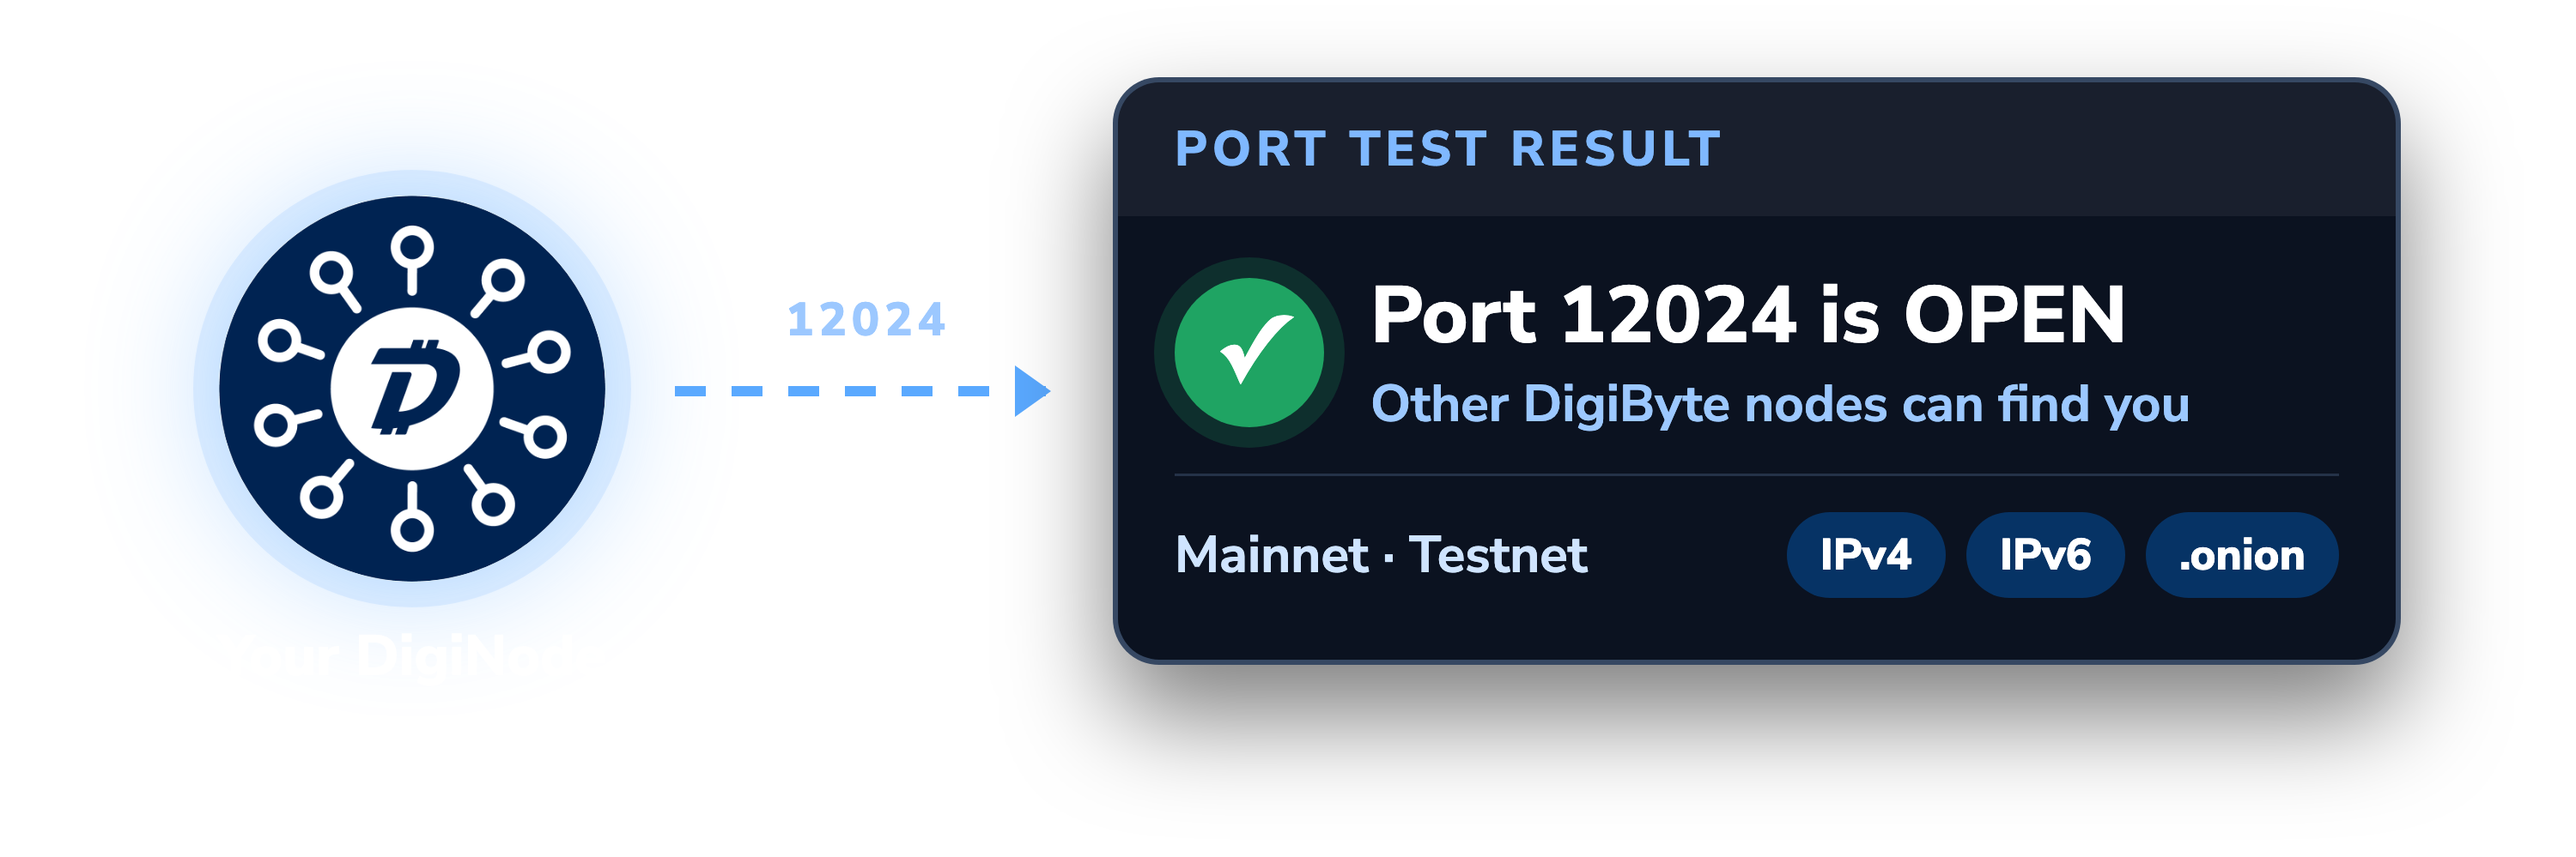
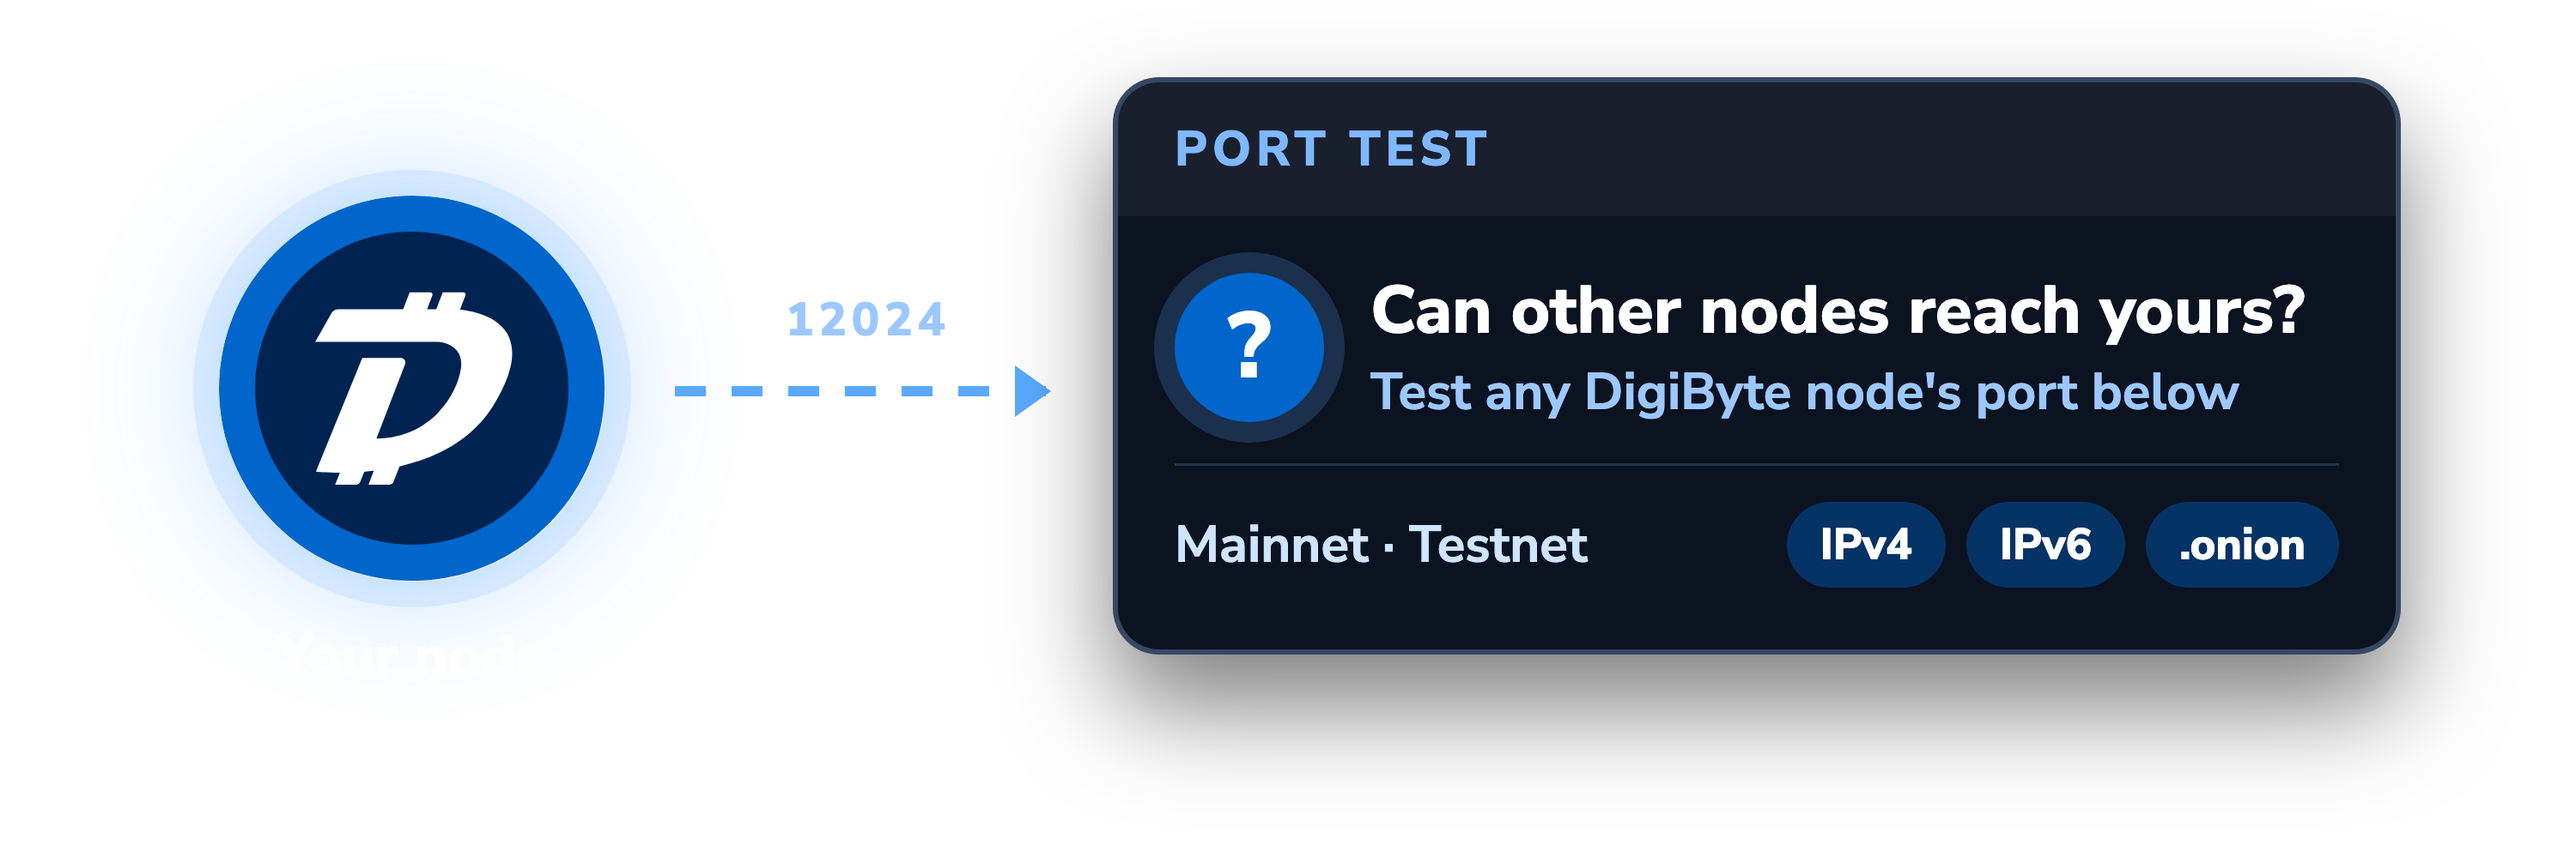
Port Tester header and share card: a question, not a result
The old pictures showed a green tick and 'Port 12024 is OPEN', which could
suggest a node is working before it has been tested. Also 'Your node' with
the DigiByte logo, and Regtest removed.

diff --git a/website/source/headers/port-tester.html b/website/source/headers/port-tester.html
@@ -1,6 +1,6 @@
 <style>
 .node{position:absolute;left:70px;top:76px;width:180px;display:flex;flex-direction:column;align-items:center;gap:14px;font-weight:800;font-size:22px}
-.node img{width:150px;height:150px;border-radius:50%;box-shadow:0 0 0 10px rgba(90,169,255,.14),0 0 50px rgba(90,169,255,.45)}
+.node svg{width:150px;height:150px;border-radius:50%;box-shadow:0 0 0 10px rgba(90,169,255,.14),0 0 50px rgba(90,169,255,.45)}
 .link{position:absolute;left:262px;top:150px;width:150px;height:4px;
   background:repeating-linear-gradient(90deg,#5aa9ff 0 12px,transparent 12px 22px)}
 .link::after{content:"";position:absolute;right:-6px;top:-8px;border:10px solid transparent;border-left:14px solid #5aa9ff}
@@ -9,21 +9,21 @@
   border:2px solid rgba(156,200,255,.3);box-shadow:0 20px 40px rgba(0,0,0,.5)}
 .pt .head{padding:13px 22px;background:rgba(255,255,255,.06);font-weight:800;font-size:19px;letter-spacing:2px;color:#7fb8ff;text-transform:uppercase}
 .pt .body{padding:22px 22px 24px;display:flex;flex-direction:column;gap:16px}
-.pt .ok{display:flex;align-items:center;gap:18px;font-weight:800;font-size:31px;line-height:1.1;white-space:nowrap}
-.pt .tick{flex:none;width:58px;height:58px;border-radius:50%;background:#1fa463;display:flex;align-items:center;justify-content:center;
-  font-size:36px;box-shadow:0 0 0 8px rgba(31,164,99,.2)}
+.pt .ok{display:flex;align-items:center;gap:18px;font-weight:800;font-size:26px;line-height:1.1;white-space:nowrap}
+.pt .tick{flex:none;width:58px;height:58px;border-radius:50%;background:#0066cc;display:flex;align-items:center;justify-content:center;
+  font-size:36px;box-shadow:0 0 0 8px rgba(90,169,255,.2)}
 .pt .ok small{display:block;white-space:normal;font-weight:700;font-size:20px;color:#9cc8ff;margin-top:6px}
 .pt .row{display:flex;justify-content:space-between;align-items:center;font-weight:700;font-size:20px;color:#cfe4ff;
   border-top:1px solid rgba(156,200,255,.18);padding-top:14px}
 .pt .chips{display:flex;gap:8px}
 .pt .chips span{padding:5px 13px;border-radius:999px;background:rgba(0,102,204,.4);font-weight:800;font-size:17px;color:#fff}
 </style>
-<div class="node"><img src="{{img:diginode-logo-round.png}}">Your DigiNode</div>
+<div class="node"><svg xmlns="http://www.w3.org/2000/svg" viewBox="0 0 279 279"><path d="M139.2 0C62.3 0 0 62.4 0 139.2C0 216 62.4 278.4 139.2 278.4C216 278.4 278.5 216.1 278.5 139.2C278.5 62.3 216.1 0 139.2 0Z" fill="#0066CC"/><path d="M139.2 252.3C201.663 252.3 252.3 201.663 252.3 139.2C252.3 76.7366 201.663 26.1 139.2 26.1C76.7366 26.1 26.1 76.7366 26.1 139.2C26.1 201.663 76.7366 252.3 139.2 252.3Z" fill="#002352"/><path d="M174 82.5L178 72.1C178.4 71 177.6 69.9 176.5 69.9H161.6L156.9 82.2H150.3L154.1 72.1C154.5 71 153.7 69.9 152.6 69.9H137.7L133 82.2H86.3C84.2 82.2 82.2 83.4 81.1 85.2L69.5 105.7H85.7H156.6C159.5 105.7 162.3 106.2 165 107.3C170.2 109.4 176.3 114.2 174.7 125C172.2 143.1 153.7 175.1 113.7 175.6L134.4 121.8C135.2 119.6 133.6 117.3 131.2 117.3H103.5L70 199.5C70 199.5 76.7 200.3 87.3 200.3L83.9 208.9H99.3C100.5 208.9 101.6 208.2 102 207L104.9 199.6C107.2 199.4 109.4 199.1 111.8 198.9L108 208.9H123.3C124.5 208.9 125.6 208.2 126 207L130.4 195.7C155.5 190 182.3 177.5 198.4 151.3C230.7 98.5 197.2 84.9 174 82.5Z" fill="white"/></svg>Your node</div>
 <div class="link"><span>12024</span></div>
 <div class="pt">
-  <div class="head">Port test result</div>
+  <div class="head">Port test</div>
   <div class="body">
-    <div class="ok"><span class="tick">✓</span><span>Port 12024 is OPEN<small>Other DigiByte nodes can find you</small></span></div>
+    <div class="ok"><span class="tick">?</span><span>Can other nodes reach yours?<small>Test any DigiByte node's port below</small></span></div>
     <div class="row"><span>Mainnet · Testnet</span><div class="chips"><span>IPv4</span><span>IPv6</span><span>.onion</span></div></div>
   </div>
 </div>

diff --git a/website/source/share-cards/art/port-tester.html b/website/source/share-cards/art/port-tester.html
@@ -4,8 +4,8 @@
 .pt .head{padding:16px 24px;background:rgba(255,255,255,.06);font-weight:800;font-size:22px;letter-spacing:2px;color:#7fb8ff;text-transform:uppercase}
 .pt .body{padding:26px 24px 30px;display:flex;flex-direction:column;gap:18px}
 .pt .ok{display:flex;align-items:center;gap:18px;font-weight:800;font-size:34px;line-height:1.1;white-space:nowrap}
-.pt .tick{flex:none;width:64px;height:64px;border-radius:50%;background:#1fa463;display:flex;align-items:center;justify-content:center;
-  font-size:40px;box-shadow:0 0 0 8px rgba(31,164,99,.2)}
+.pt .tick{flex:none;width:64px;height:64px;border-radius:50%;background:#0066cc;display:flex;align-items:center;justify-content:center;
+  font-size:40px;box-shadow:0 0 0 8px rgba(90,169,255,.2)}
 .pt .ok small{display:block;white-space:normal;font-weight:700;font-size:22px;color:#9cc8ff;margin-top:6px}
 .pt .row{display:flex;justify-content:space-between;font-weight:700;font-size:22px;color:#cfe4ff;border-top:1px solid rgba(156,200,255,.18);padding-top:14px}
 .pt .row b{color:#fff}
@@ -13,10 +13,10 @@
 .pt .chips span{padding:6px 14px;border-radius:999px;background:rgba(0,102,204,.35);font-weight:800;font-size:19px}
 </style>
 <div class="pt">
-  <div class="head">Port test result</div>
+  <div class="head">Port test</div>
   <div class="body">
-    <div class="ok"><span class="tick">✓</span><span>Port 12024 is OPEN<small>Other nodes can find your DigiByte Node</small></span></div>
-    <div class="row"><span>Network</span><b>Mainnet · Testnet · Regtest</b></div>
+    <div class="ok"><span class="tick">?</span><span>Can other nodes<br>reach yours?<small>Test any DigiByte node's port</small></span></div>
+    <div class="row"><span>Network</span><b>Mainnet · Testnet</b></div>
     <div class="chips"><span>IPv4</span><span>IPv6</span><span>.onion</span></div>
   </div>
 </div>
